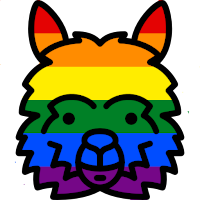
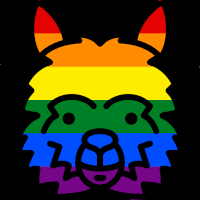
Amended Llama image

diff --git a/README.md b/README.md
@@ -1,2 +1,6 @@
 # YARA-Llama
 A GUI for YARA malware pattern matching tool
+<p align="center">
+  <img width="200" height="200" src="GITimages/lama-head.png">
+</p>
+
